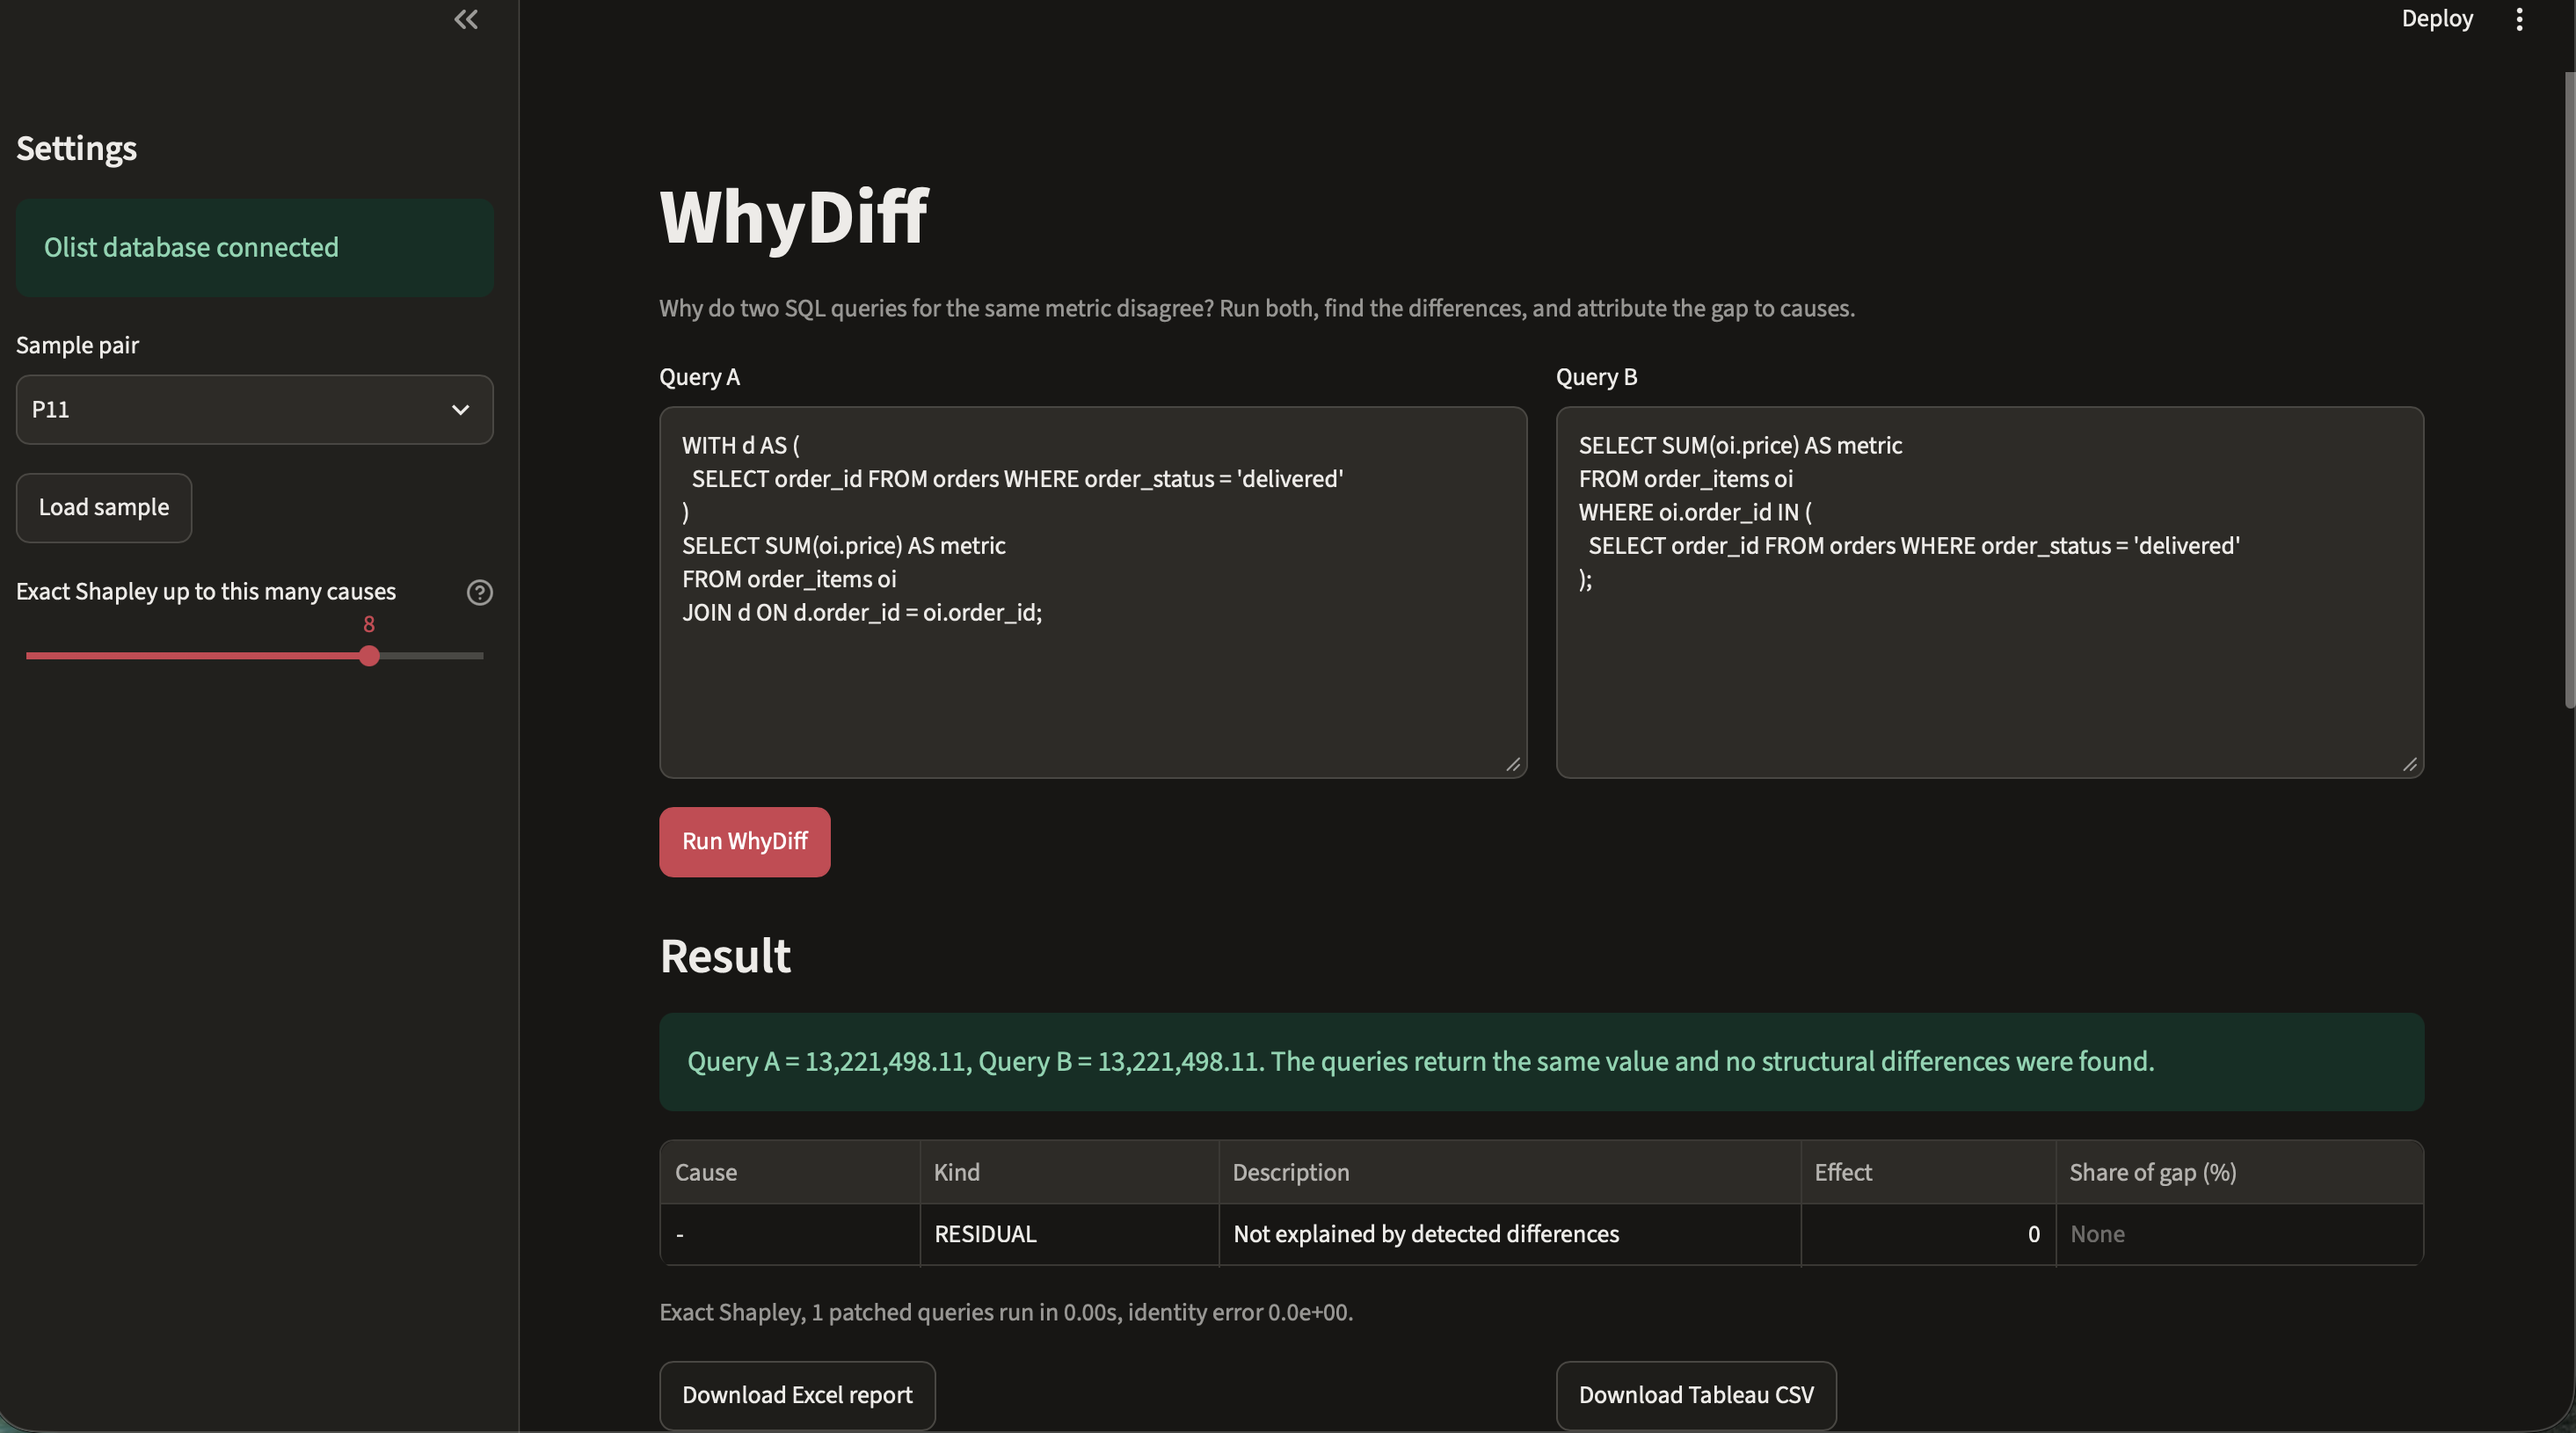
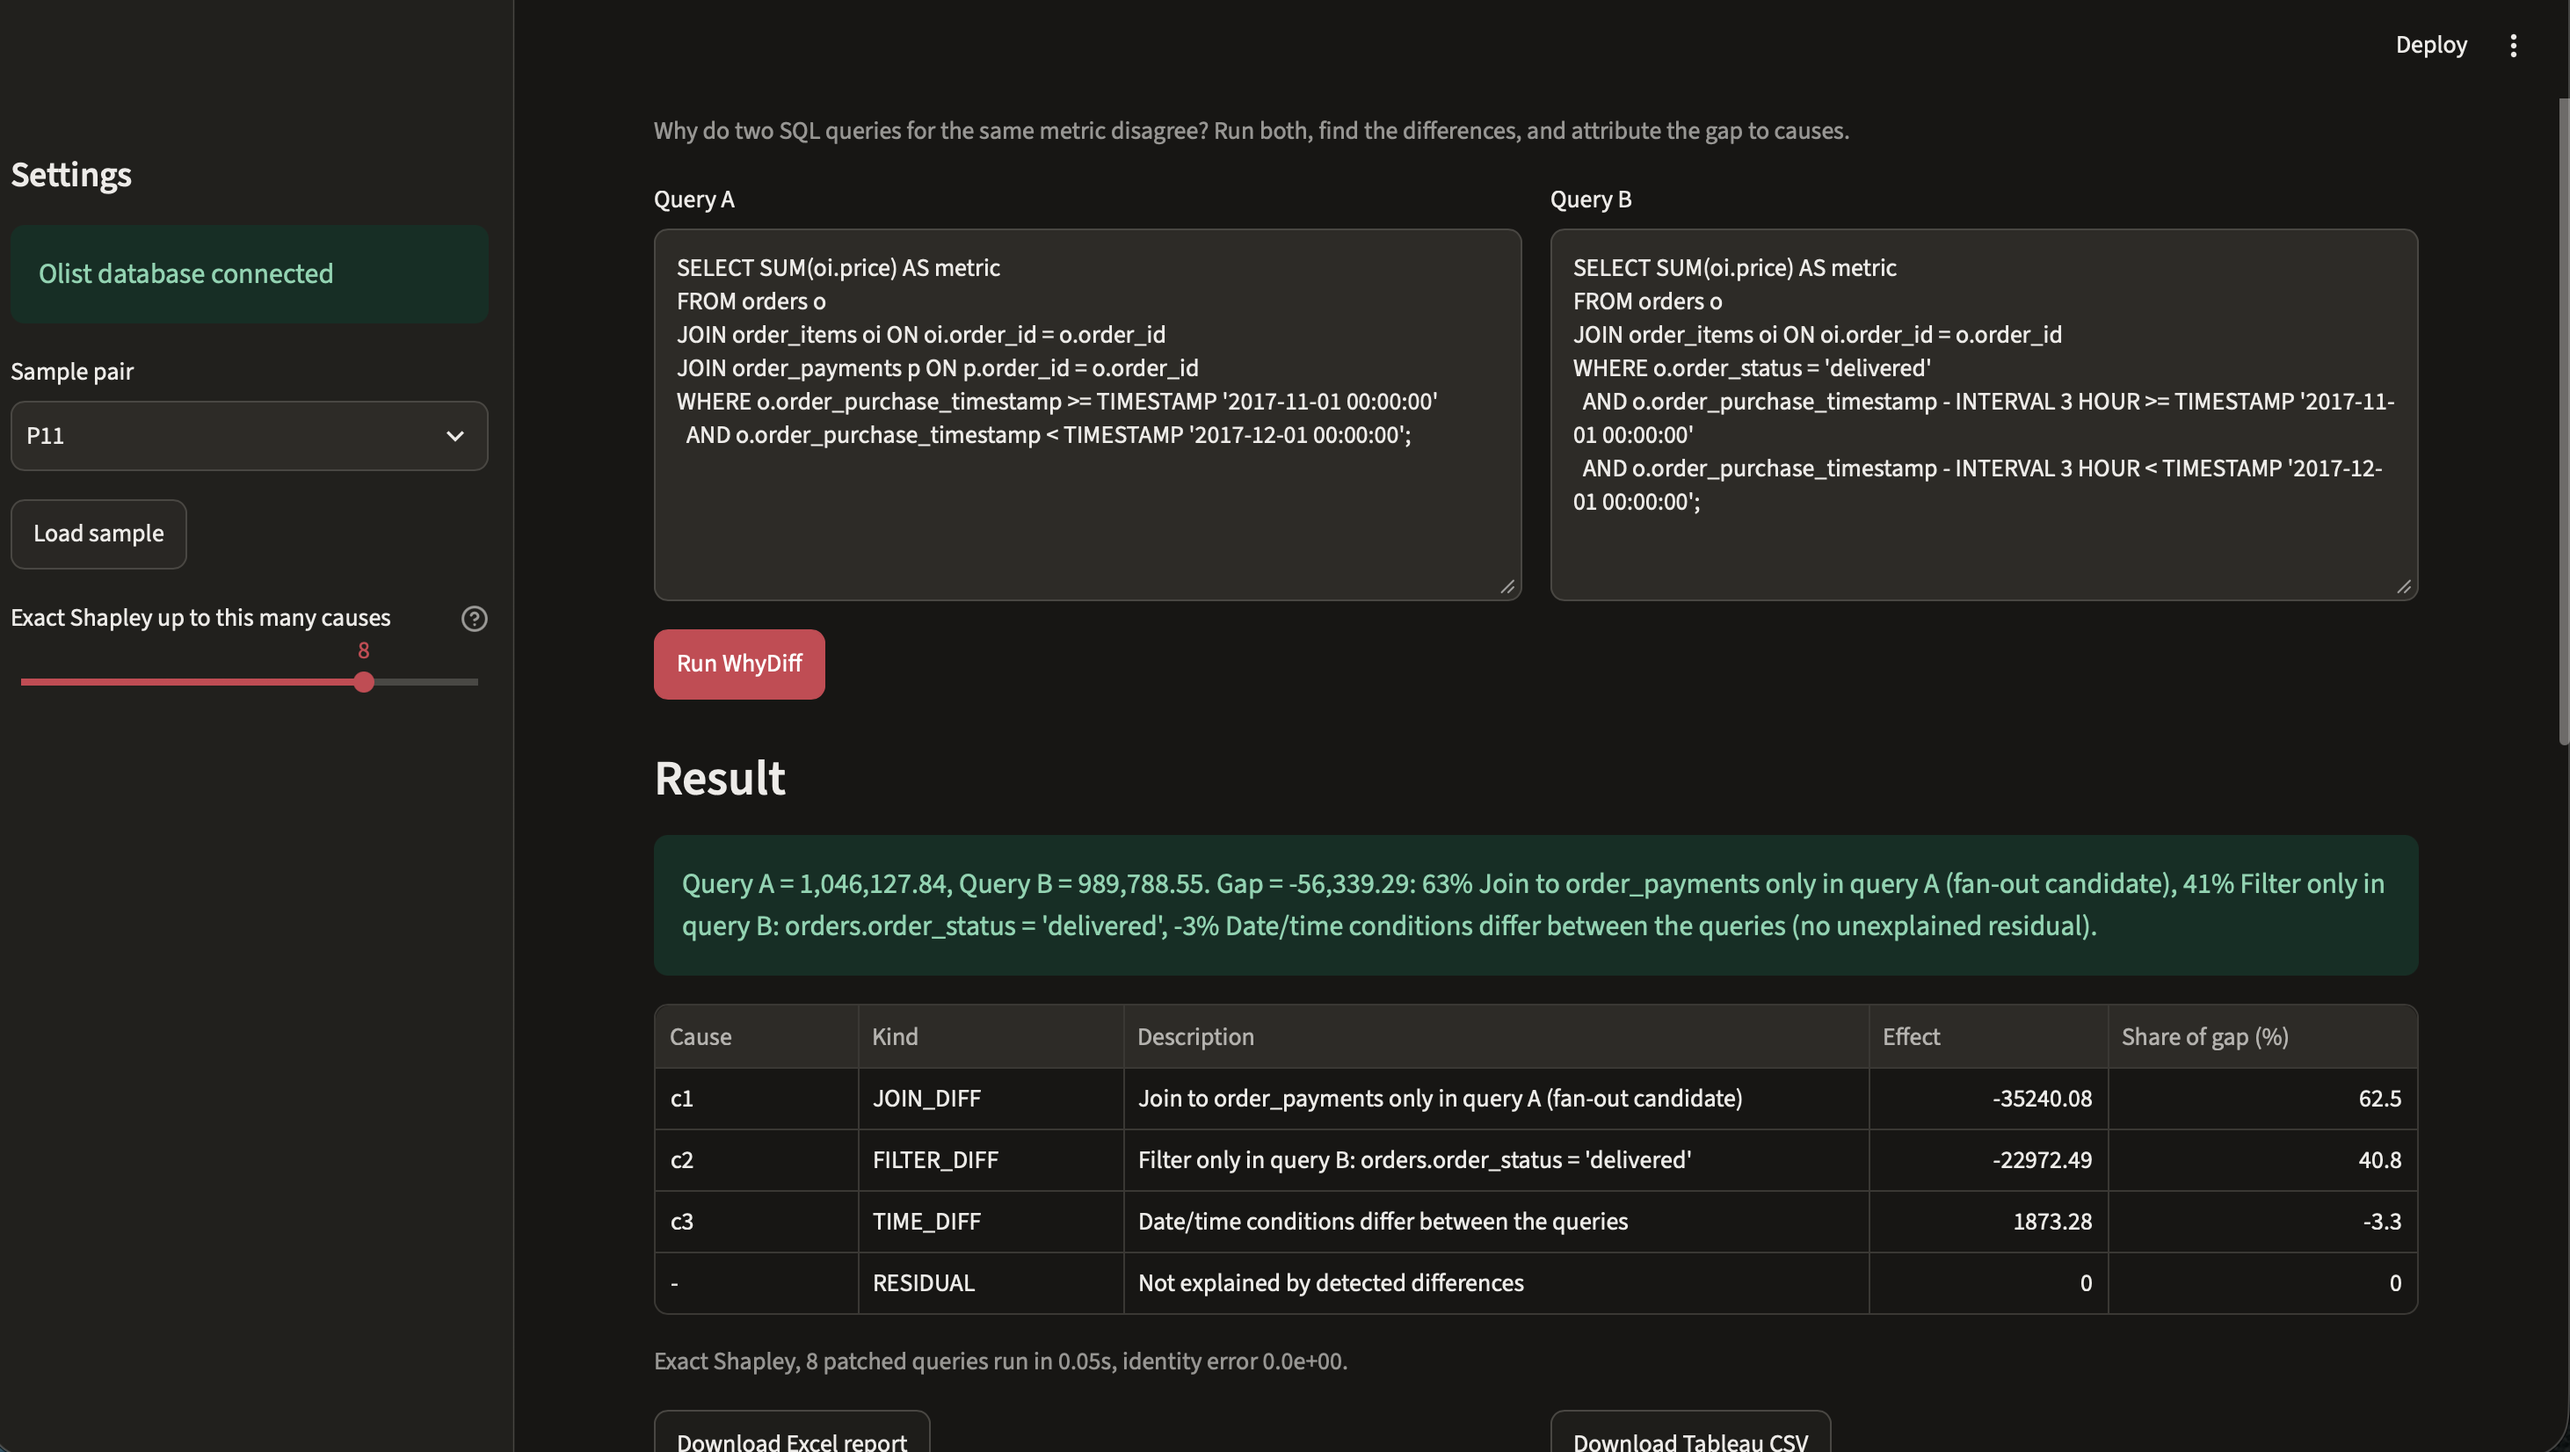
Fix P11 screenshot and auto-load sample pair

diff --git a/app.py b/app.py
@@ -86,7 +86,7 @@ if "qa" not in st.session_state:
 with st.sidebar:
     st.header("Settings")
     st.success("Olist database connected")
-    st.selectbox("Sample pair", ids, key="sample")
+    st.selectbox("Sample pair", ids, key="sample", on_change=load_sample)
     st.button("Load sample", on_click=load_sample)
     max_exact = st.slider("Exact Shapley up to this many causes", 2, 10, 8,
                           help="n causes need 2^n query runs. Above this, a sampled estimate is used.")
